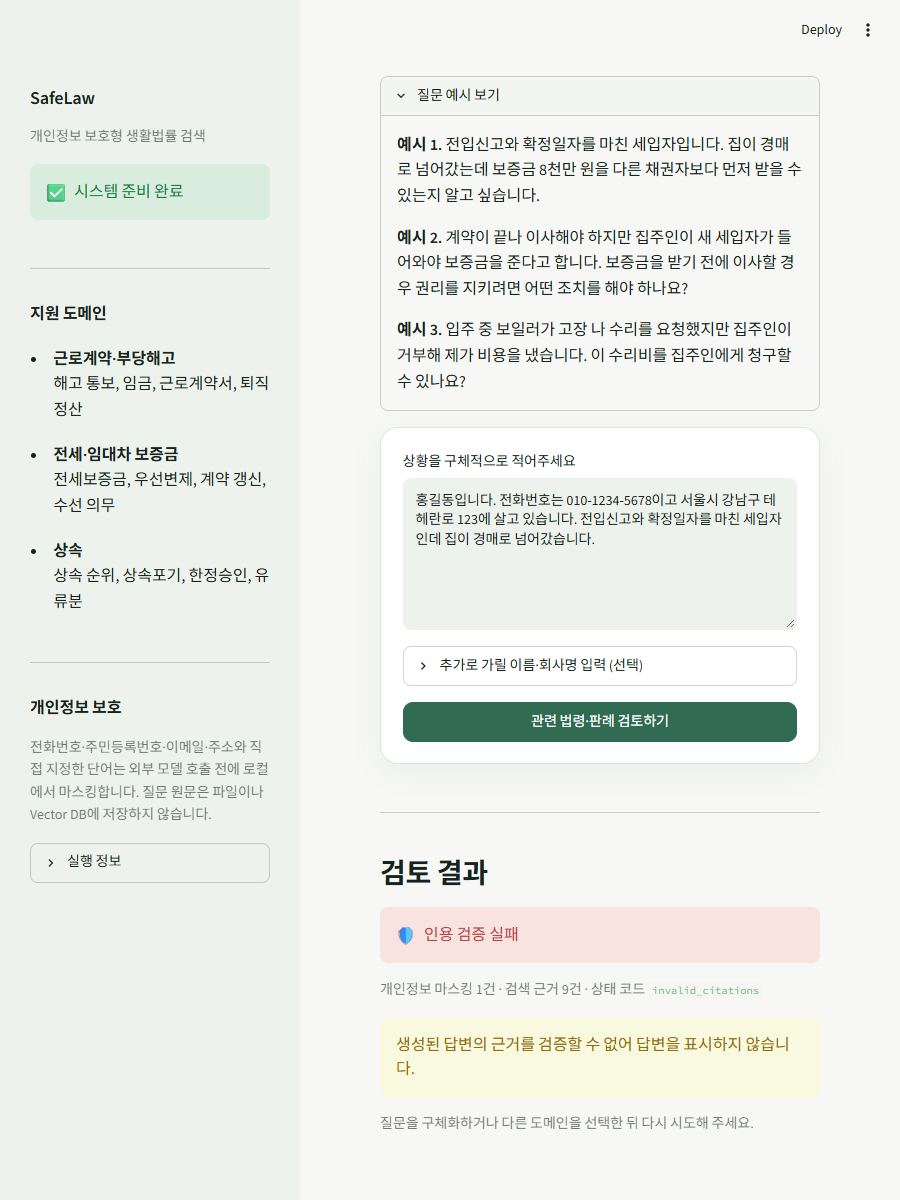
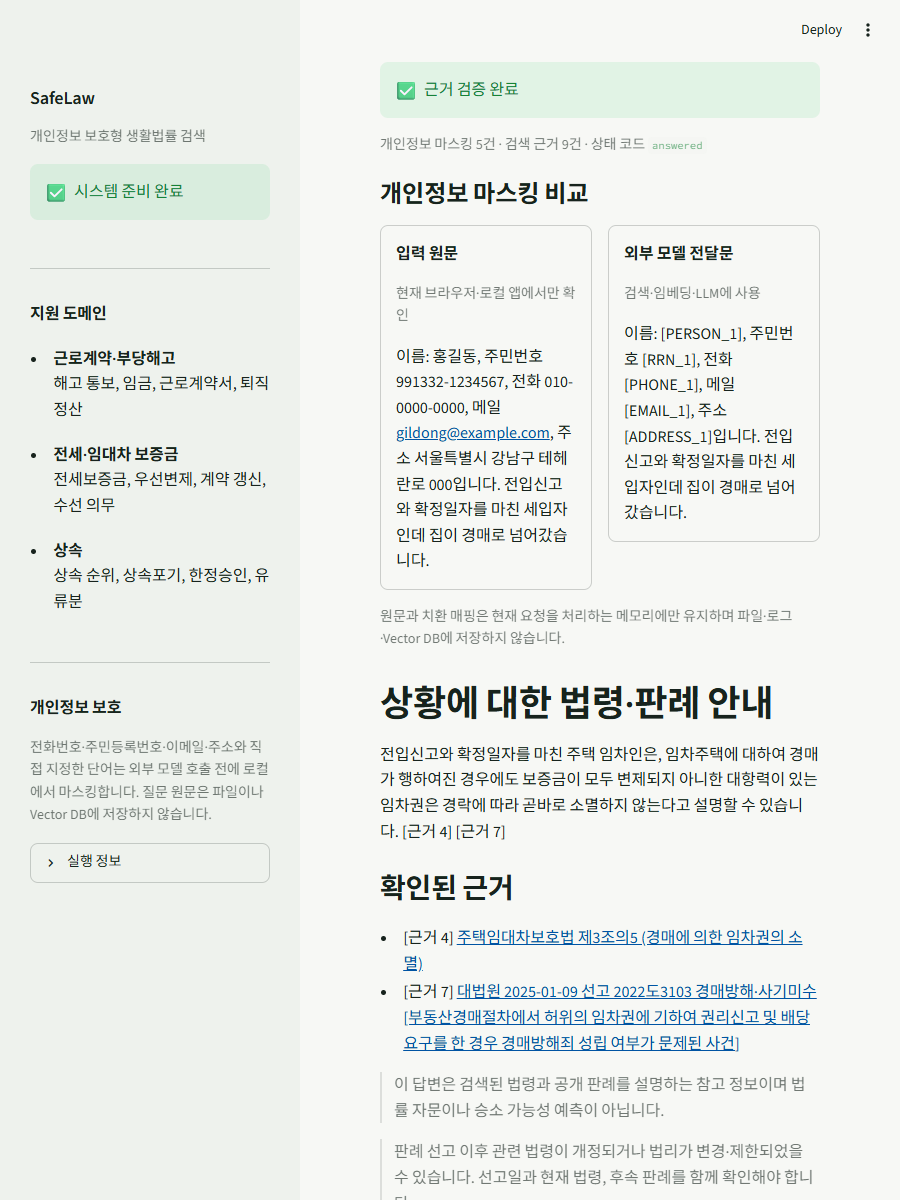
feat: show privacy masking comparison

Changed region(s): [[0.4044, 0.0617, 0.9022, 0.9867]]

diff --git a/scripts/capture_ui_screenshots.py b/scripts/capture_ui_screenshots.py
@@ -206,6 +206,12 @@ def main() -> None:
     parser = argparse.ArgumentParser(description="SafeLaw README용 Streamlit 화면 캡처")
     parser.add_argument("--url", default="http://localhost:8501")
     parser.add_argument("--output-dir", type=Path, default=ROOT / "docs" / "assets")
+    parser.add_argument(
+        "--scenario",
+        choices=("all", "grounded", "privacy", "refusal"),
+        default="all",
+        help="캡처할 화면. 기본값은 전체입니다.",
+    )
     args = parser.parse_args()
     args.output_dir.mkdir(parents=True, exist_ok=True)
 
@@ -236,38 +242,43 @@ def main() -> None:
             {"width": 900, "height": 1200, "deviceScaleFactor": 1, "mobile": False},
         )
 
-        _load_fresh(client, args.url)
-        _submit(
-            client,
-            category="근로계약·부당해고",
-            query=(
-                "회사에서 카카오톡으로 내일부터 나오지 말라고 했습니다. "
-                "해고 사유와 시기를 적은 서면 통지를 받지 못했는데 해고 효력은 어떻게 되나요?"
-            ),
-        )
-        _wait_for_text(client, "근거 검증 완료")
-        _capture(client, args.output_dir / "safelaw-grounded-answer.png", anchor_text="검토 결과")
+        if args.scenario in ("all", "grounded"):
+            _load_fresh(client, args.url)
+            _submit(
+                client,
+                category="근로계약·부당해고",
+                query=(
+                    "회사에서 카카오톡으로 내일부터 나오지 말라고 했습니다. "
+                    "해고 사유와 시기를 적은 서면 통지를 받지 못했는데 해고 효력은 어떻게 되나요?"
+                ),
+            )
+            _wait_for_text(client, "근거 검증 완료")
+            _capture(client, args.output_dir / "safelaw-grounded-answer.png", anchor_text="검토 결과")
 
-        _load_fresh(client, args.url)
-        _submit(
-            client,
-            category="전세·임대차 보증금",
-            query=(
-                "홍길동입니다. 전화번호는 010-1234-5678이고 서울시 강남구 테헤란로 123에 살고 있습니다. "
-                "전입신고와 확정일자를 마친 세입자인데 집이 경매로 넘어갔습니다."
-            ),
-        )
-        _wait_for_text(client, "개인정보 마스킹 1건")
-        _capture(client, args.output_dir / "safelaw-privacy-mask.png", anchor_text="검토 결과")
+        if args.scenario in ("all", "privacy"):
+            _load_fresh(client, args.url)
+            _submit(
+                client,
+                category="전세·임대차 보증금",
+                query=(
+                    "이름: 홍길동, 주민번호 991332-1234567, 전화 010-0000-0000, "
+                    "메일 gildong@example.com, 주소 서울특별시 강남구 테헤란로 000입니다. "
+                    "전입신고와 확정일자를 마친 세입자인데 집이 경매로 넘어갔습니다."
+                ),
+            )
+            _wait_for_text(client, "개인정보 마스킹 5건")
+            _wait_for_text(client, "외부 모델 전달문")
+            _capture(client, args.output_dir / "safelaw-privacy-mask.png", anchor_text="검토 결과")
 
-        _load_fresh(client, args.url)
-        _submit(
-            client,
-            category="근로계약·부당해고",
-            query="오늘 점심 메뉴로 김치찌개와 샌드위치 중 무엇이 더 좋을까요?",
-        )
-        _wait_for_text(client, "근거 부족")
-        _capture(client, args.output_dir / "safelaw-refusal.png", anchor_text="검토 결과")
+        if args.scenario in ("all", "refusal"):
+            _load_fresh(client, args.url)
+            _submit(
+                client,
+                category="근로계약·부당해고",
+                query="오늘 점심 메뉴로 김치찌개와 샌드위치 중 무엇이 더 좋을까요?",
+            )
+            _wait_for_text(client, "근거 부족")
+            _capture(client, args.output_dir / "safelaw-refusal.png", anchor_text="검토 결과")
 
         for path in sorted(args.output_dir.glob("safelaw-*.png")):
             print(f"{path.relative_to(ROOT)}: {path.stat().st_size:,} bytes")

diff --git a/src/legal_rag/ui/streamlit_app.py b/src/legal_rag/ui/streamlit_app.py
@@ -224,7 +224,14 @@ def _render_sidebar(st: Any, settings: Settings, ready: bool, readiness_message:
             )
 
 
-def _render_result(st: Any, answer: GroundedAnswer, redaction_count: int) -> None:
+def _render_result(
+    st: Any,
+    answer: GroundedAnswer,
+    *,
+    original_text: str,
+    sanitized_text: str,
+    redaction_count: int,
+) -> None:
     presentation = STATUS_PRESENTATIONS[answer.status]
     st.subheader("검토 결과")
     message = f"{presentation.icon} {presentation.title}"
@@ -233,6 +240,24 @@ def _render_result(st: Any, answer: GroundedAnswer, redaction_count: int) -> Non
         f"개인정보 마스킹 {redaction_count}건 · 검색 근거 {answer.retrieved_count}건 · "
         f"상태 코드 `{answer.status.value}`"
     )
+
+    if redaction_count:
+        st.markdown("#### 개인정보 마스킹 비교")
+        original_column, sanitized_column = st.columns(2)
+        with original_column:
+            with st.container(border=True):
+                st.markdown("**입력 원문**")
+                st.caption("현재 브라우저·로컬 앱에서만 확인")
+                st.write(original_text)
+        with sanitized_column:
+            with st.container(border=True):
+                st.markdown("**외부 모델 전달문**")
+                st.caption("검색·임베딩·LLM에 사용")
+                st.write(sanitized_text)
+        st.caption(
+            "원문과 치환 매핑은 현재 요청을 처리하는 메모리에만 유지하며 "
+            "파일·로그·Vector DB에 저장하지 않습니다."
+        )
 
     if answer.is_answered:
         st.markdown(answer.content)
@@ -367,5 +392,11 @@ def main() -> None:
         return
 
     st.divider()
-    _render_result(st, answer, privacy.redaction_count)
+    _render_result(
+        st,
+        answer,
+        original_text=question,
+        sanitized_text=privacy.sanitized_text,
+        redaction_count=privacy.redaction_count,
+    )
 

diff --git a/tests/test_redaction.py b/tests/test_redaction.py
@@ -39,6 +39,21 @@ class PrivacyGuardTests(unittest.TestCase):
         self.assertNotIn("테헤란로 123", result.sanitized_text)
         self.assertIn("[ADDRESS_1]", result.sanitized_text)
 
+    def test_submission_example_has_stable_masking_preview(self):
+        original = (
+            "이름: 홍길동, 주민번호 991332-1234567, 전화 010-0000-0000, "
+            "메일 gildong@example.com, 주소 서울특별시 강남구 테헤란로 000입니다."
+        )
+
+        result = self.guard.redact(original)
+
+        self.assertEqual(
+            result.sanitized_text,
+            "이름: [PERSON_1], 주민번호 [RRN_1], 전화 [PHONE_1], "
+            "메일 [EMAIL_1], 주소 [ADDRESS_1]입니다.",
+        )
+        self.assertEqual(result.redaction_count, 5)
+
     def test_repr_does_not_include_original_secret(self):
         result = self.guard.redact("전화번호는 010-9999-8888입니다.")
         self.assertNotIn("010-9999-8888", repr(result))

diff --git a/README.md b/README.md
@@ -99,11 +99,11 @@ streamlit run app.py
 
 ![해고 서면통지 질문에 대한 검증된 법령·판례 답변](docs/assets/safelaw-grounded-answer.png)
 
-### 외부 호출 전 개인정보 마스킹 및 인용 실패 차단
+### 외부 호출 전 개인정보 마스킹 비교
 
-아래 입력의 이름·전화번호·주소는 화면 검증을 위해 만든 가상 정보입니다. 사용자 입력은 화면에는 그대로 보이지만 외부 모델 호출 전에 로컬에서 마스킹되며, 생성 인용문을 검증할 수 없으면 모델 답변을 표시하지 않습니다.
+아래 화면은 가상의 이름·주민등록번호·전화번호·이메일·주소가 각각 플레이스홀더로 치환된 결과를 한 장에서 비교합니다. 왼쪽 원문은 현재 브라우저와 로컬 Streamlit 세션 안에서만 보이고, 오른쪽 마스킹 문장만 검색·임베딩·LLM으로 전달됩니다. 원문과 치환 매핑은 파일·로그·Vector DB에 저장하지 않습니다.
 
-![가상 개인정보 마스킹 및 인용 검증 실패 차단](docs/assets/safelaw-privacy-mask.png)
+![가상 개인정보 원문과 외부 모델 전달문 비교](docs/assets/safelaw-privacy-mask.png)
 
 ### 법률과 무관한 질문의 안전한 답변 거부
 
@@ -113,6 +113,8 @@ streamlit run app.py
 
 ```powershell
 .\.venv\Scripts\python.exe scripts\capture_ui_screenshots.py
+# 마스킹 비교 화면만 다시 생성
+.\.venv\Scripts\python.exe scripts\capture_ui_screenshots.py --scenario privacy
 ```
 
 ## 법령 데이터셋
